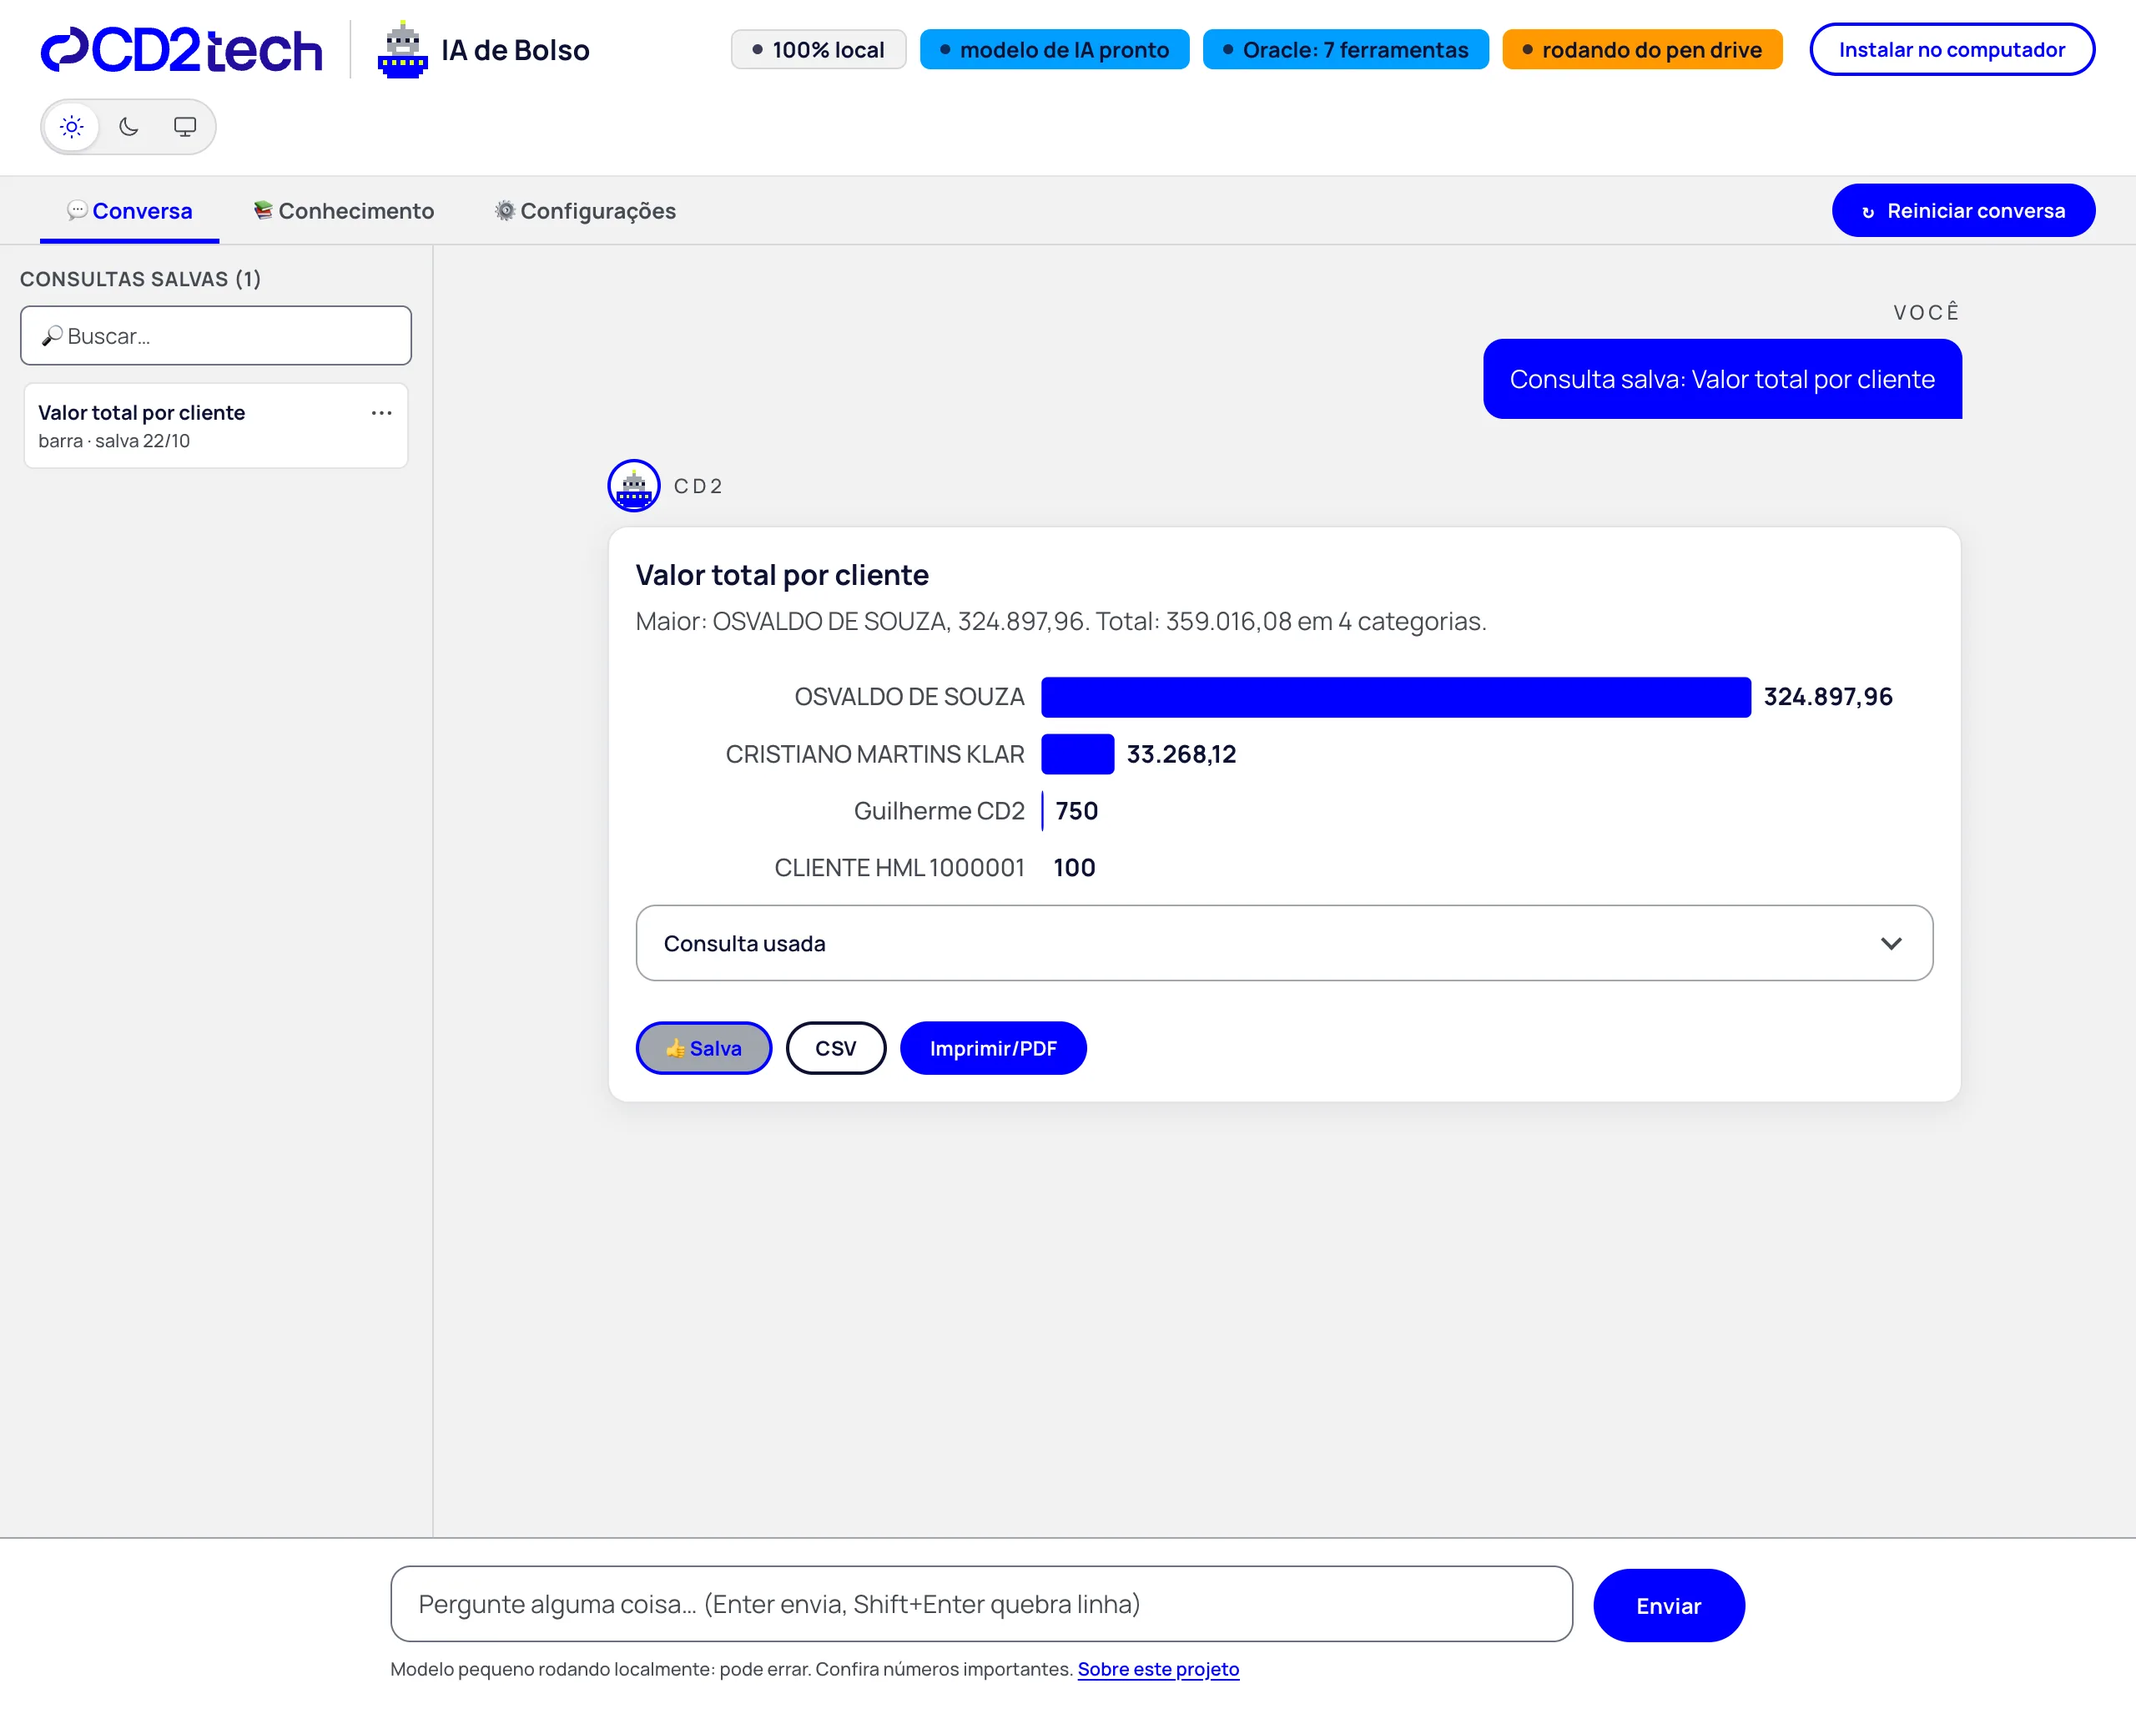
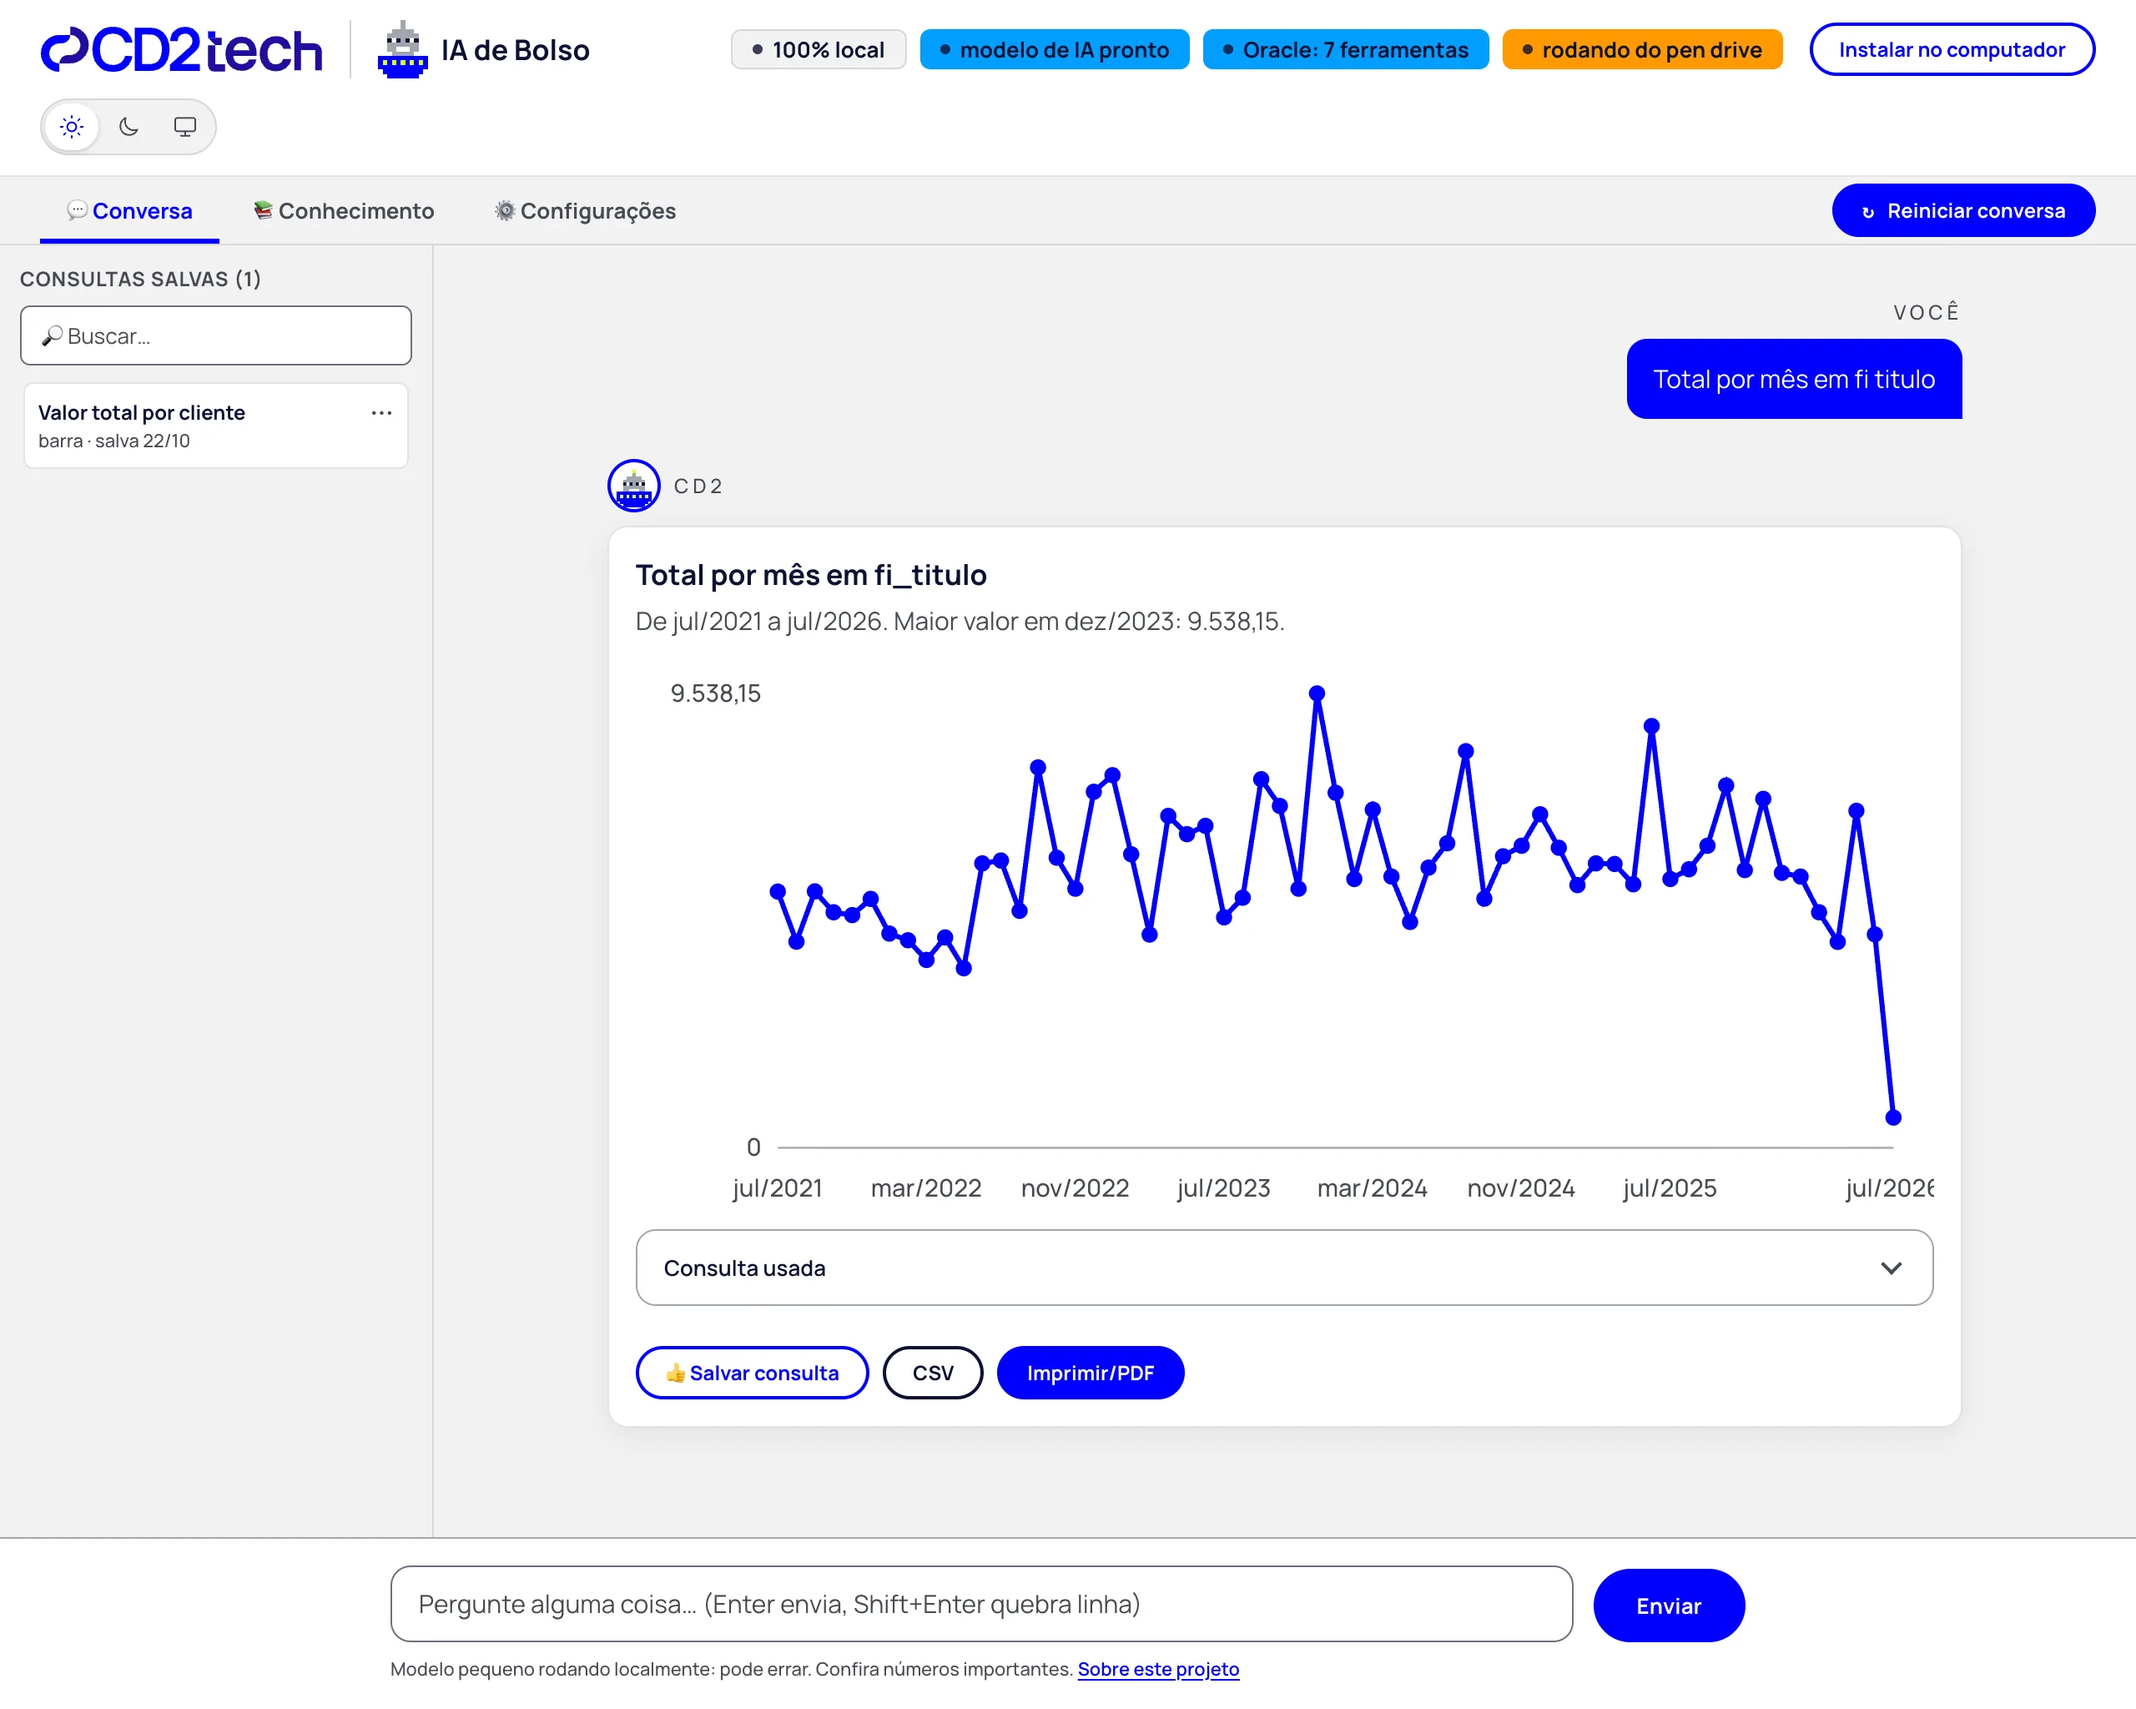
Site: prints sem dados de pessoas e com conexão fictícia
O print do chat mostrava nomes de clientes no gráfico de barras. Agora é um total por mês
(gráfico de linha), nos dois temas. O print das Configurações traz host, base, usuário e schema
fictícios no lugar da conexão real, e o do Conhecimento segue o mesmo nome de base.

diff --git a/docs/index.html b/docs/index.html
@@ -251,8 +251,8 @@ footer.t-blue{padding:var(--space-16) 0 var(--space-8)}
       <p class="hero__nota">Grátis. Você só precisa de um pen drive de 16 GB.</p>
     </div>
     <figure class="hero__shot">
-      <img class="tema-claro" src="assets/telas/conversa-claro.webp" width="2560" height="2048" alt="Tela da IA de Bolso no tema claro: à esquerda a barra Consultas salvas; no meio, a consulta salva &quot;Valor total por cliente&quot; vira um gráfico de barras com o total de cada cliente, tirado de um banco Oracle, com a consulta usada e os botões Salva, CSV e Imprimir/PDF. Na faixa das guias, à direita, o botão Reiniciar conversa.">
-      <img class="tema-escuro" src="assets/telas/conversa-escuro.webp" width="2560" height="2048" alt="A mesma tela da IA de Bolso no tema escuro: barra Consultas salvas à esquerda e o gráfico de barras do total por cliente, em azul claro sobre fundo cinza escuro.">
+      <img class="tema-claro" src="assets/telas/conversa-claro.webp" width="2560" height="2048" alt="Tela da IA de Bolso no tema claro: à esquerda a barra Consultas salvas; no meio, a pergunta &quot;Total por mês em fi titulo&quot; vira um gráfico de linha com o total de cada mês, tirado de um banco Oracle, com a consulta usada e os botões Salvar consulta, CSV e Imprimir/PDF. Na faixa das guias, à direita, o botão Reiniciar conversa.">
+      <img class="tema-escuro" src="assets/telas/conversa-escuro.webp" width="2560" height="2048" alt="A mesma tela da IA de Bolso no tema escuro: barra Consultas salvas à esquerda e o gráfico de linha do total por mês, em azul claro sobre fundo cinza escuro.">
       <figcaption class="hero__tema">
         <span class="so" role="group" aria-label="Tema da tela">
           <input type="radio" name="tema" id="tema-claro" checked><label for="tema-claro">Claro</label>
@@ -328,7 +328,7 @@ footer.t-blue{padding:var(--space-16) 0 var(--space-8)}
       <h2>Conecta no sistema <em>que você já usa.</em></h2>
       <p class="lead">A conexão fica guardada só no computador. Nada vai para a nuvem.</p>
       <figure class="tela">
-        <img src="assets/telas/configuracoes.webp" width="2560" height="1900" loading="lazy" alt="Guia Configurações da IA de Bolso: as opções MCP Nativo para Banco de dados, Demonstração (offline) e Archeo MCP; o formulário com motor Oracle, host, porta, service name, usuário, senha e schema; abaixo, a conexão ativa com versão do banco, base, usuário, schema e 10 tabelas visíveis, os links para exportar o PDF e desconectar, e o botão Salvar e conectar.">
+        <img src="assets/telas/configuracoes.webp" width="2560" height="1900" loading="lazy" alt="Guia Configurações da IA de Bolso: as opções MCP Nativo para Banco de dados, Demonstração (offline) e Archeo MCP; o formulário com motor Oracle, host 192.168.0.10, porta 1521, service name ERP, usuário leitura, senha e schema ERP; abaixo, a conexão ativa com versão do banco, base, usuário, schema e 10 tabelas visíveis, os links para exportar o PDF e desconectar, e o botão Salvar e conectar.">
         <figcaption>A guia <strong>Configurações</strong> é uma tela só: escolha entre banco de dados, Demonstração ou Archeo, preencha a conexão e clique em <strong>Salvar e conectar</strong>. Ela mostra o que está conectado agora e tem o botão para desconectar. A senha fica só neste computador e nunca volta para a tela.</figcaption>
       </figure>
       <div class="grid2">
@@ -346,7 +346,7 @@ footer.t-blue{padding:var(--space-16) 0 var(--space-8)}
       <h2>Ela aprende o seu banco. <em>Você corrige o que ela entendeu.</em></h2>
       <p class="lead">Nome de tabela de sistema de gestão raramente explica o que tem dentro. Ao conectar, a IA de Bolso olha cada tabela, entende o papel dela e escreve uma frase sobre cada uma. Na guia <strong>Conhecimento</strong> você vê tudo isso e ajusta com uma palavra sua.</p>
       <figure class="tela">
-        <img src="assets/telas/conhecimento.webp" width="2560" height="2048" loading="lazy" alt="Guia Conhecimento da IA de Bolso: no topo, &quot;Banco de dados · Oracle · 10 tabelas, 3 com nota&quot; e os botões Atualizar com o banco, Exportar e Importar. À esquerda, a lista de tabelas com o papel de cada uma (movimento, cadastro, parâmetro, itens). À direita, a tabela FI_TITULO com o texto &quot;O que a IA entendeu&quot;, o campo Comentário sobre a tabela e a lista de campos com tipo e uma caixa de comentário por campo, como &quot;SEQPESSOA é um cliente&quot;.">
+        <img src="assets/telas/conhecimento.webp" width="2560" height="2048" loading="lazy" alt="Guia Conhecimento da IA de Bolso: no topo, &quot;Banco de dados · Oracle · base ERP · 10 tabelas, 3 com nota&quot; e os botões Atualizar com o banco, Exportar e Importar. À esquerda, a lista de tabelas com o papel de cada uma (movimento, cadastro, parâmetro, itens). À direita, a tabela FI_TITULO com o texto &quot;O que a IA entendeu&quot;, o campo Comentário sobre a tabela e a lista de campos com tipo e uma caixa de comentário por campo, como &quot;SEQPESSOA é um cliente&quot;.">
         <figcaption>À esquerda, as tabelas do banco com o papel que a IA deu a cada uma. À direita, o que ela entendeu da tabela escolhida, o comentário dela já preenchido para você corrigir, e uma caixa de comentário por campo.</figcaption>
       </figure>
       <div class="grid2">
